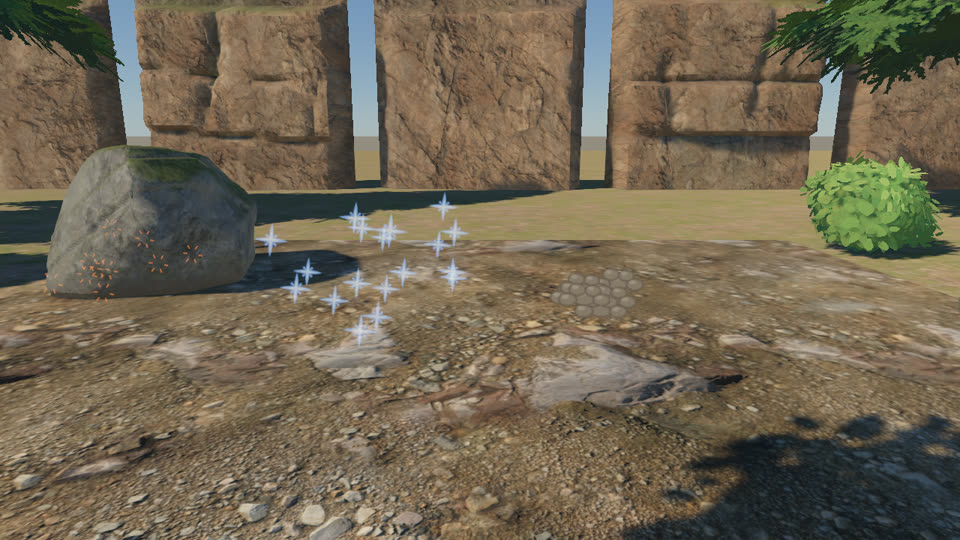
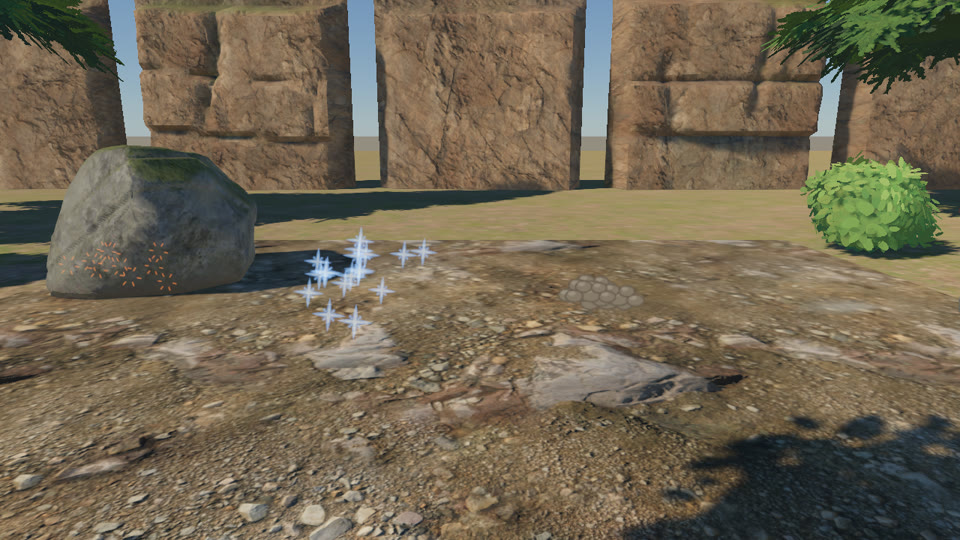
Particles: velocity cone init modifier
InitModifier::VelocityCone { direction, spread, speed } throws particles in a
direction uniform over a cone's solid angle, matching asset-tooling's burst
presets. The oracle scenario particles_cone builds the same velocity on the
Bevy side from hanabi expressions; the kit showcase uses the cone instead of
its box approximation.

Closes #87

diff --git a/oracle/src/particles.rs b/oracle/src/particles.rs
@@ -131,6 +131,14 @@ pub enum Velocity {
     Radial { speed: f32 },
     /// `base + (2 r - 1) * spread` per axis, `r` uniform in [0, 1)³ from the particle's stream.
     Jitter { base: Vec3, spread: Vec3 },
+    /// In a cone of half-angle `spread` around `direction`, uniform over its solid angle, at a
+    /// speed uniform in `speed.0..speed.1` (render-engine `InitModifier::VelocityCone`; hanabi
+    /// expressions on the Bevy side).
+    Cone {
+        direction: Vec3,
+        spread: f32,
+        speed: (f32, f32),
+    },
 }
 
 #[derive(Clone, Debug)]
@@ -227,6 +235,18 @@ impl Emitter {
                 min: base - spread,
                 max: base + spread,
             }),
+            Velocity::Cone {
+                direction,
+                spread,
+                speed,
+            } => InitModifier::VelocityCone {
+                direction,
+                spread,
+                speed: Value::Uniform {
+                    min: speed.0,
+                    max: speed.1,
+                },
+            },
         };
         particles::Emitter {
             capacity: self.capacity,
@@ -301,6 +321,19 @@ impl Emitter {
                         let (min, max) = (base - spread, base + spread);
                         r.frand3() * (max - min) + min
                     }
+                    Velocity::Cone {
+                        direction,
+                        spread,
+                        speed,
+                    } => {
+                        let d = direction.normalize();
+                        let (t1, t2) = d.any_orthonormal_pair();
+                        let c = 1.0 - r.frand() * (1.0 - spread.cos());
+                        let phi = r.frand() * std::f32::consts::TAU;
+                        let speed = speed.0 + r.frand() * (speed.1 - speed.0);
+                        let s = (1.0 - c * c).max(0.0).sqrt();
+                        (t1 * (s * phi.cos()) + t2 * (s * phi.sin()) + d * c) * speed
+                    }
                 };
                 alive.push(particles::ParticleState {
                     position: position + self.translation,
@@ -350,6 +383,7 @@ pub fn all() -> Vec<ParticleScenario> {
         smoke_and_sparks(),
         lit_fog(),
         snapshot(),
+        cone_bursts(),
     ]
 }
 
@@ -991,6 +1025,127 @@ fn fountain() -> ParticleScenario {
             colour: 0.12,
         },
     }
+}
+
+/// An additive, round emitter thrown out in a cone (#87), like asset-tooling's burst presets
+/// (`direction`, `spread`, `speed`, `gravity`).
+#[allow(clippy::too_many_arguments)]
+fn cone(
+    name: &'static str,
+    spawn: Spawn,
+    position: Vec3,
+    direction: Vec3,
+    spread: f32,
+    speed: (f32, f32),
+    gravity: f32,
+    lifetime_frames: f32,
+    color: Vec4,
+) -> Emitter {
+    Emitter {
+        name,
+        capacity: 1024,
+        spawn,
+        position,
+        radius: 0.04,
+        velocity: Velocity::Cone {
+            direction,
+            spread,
+            speed,
+        },
+        lifetime: lifetime_frames * DT,
+        gravity: Vec3::new(0.0, -gravity, 0.0),
+        size: square(&[(0.0, 0.09), (1.0, 0.03)]),
+        color: vec![
+            (0.0, color),
+            (0.6, color * Vec4::new(0.6, 0.5, 0.5, 0.8)),
+            (1.0, color * Vec4::new(0.2, 0.1, 0.1, 0.0)),
+        ],
+        orient: Orient::CameraPlane,
+        texture: None,
+        round: true,
+        blend: ParticleBlend::Add,
+        translation: Vec3::ZERO,
+        lighting: None,
+        fog: false,
+        driver: Driver::Spawner,
+    }
+}
+
+/// `particles_cone` (#87): velocity cones (`InitModifier::VelocityCone`), built on the Bevy
+/// side from hanabi expressions. Three bursts shaped like asset-tooling's presets: sparks
+/// straight up (spread 1.1 rad), a guard-break glint thrown sideways and away from the camera
+/// (1.4 rad), a dust puff over more than a hemisphere (2.6 rad), and a narrow jet (0.35 rad,
+/// tilted back) spawning 512 a second. Captured at 0.5 s (no particle has died yet: exact tier)
+/// and 2.5 s (the bursts have died, the jet recycles slots: statistical tier).
+fn cone_bursts() -> ParticleScenario {
+    let mut s = fountain();
+    s.name = "particles_cone";
+    s.capability = "velocity cone";
+    s.seed = 0x5eed_0087;
+    s.emitters = vec![
+        cone(
+            "spark",
+            Spawn::Burst { count: 128 },
+            Vec3::new(-2.6, 1.0, 0.0),
+            Vec3::Y,
+            1.1,
+            (2.4, 4.5),
+            6.0,
+            80.0,
+            Vec4::new(6.0, 3.0, 0.8, 1.0),
+        ),
+        cone(
+            "guard_break",
+            Spawn::Burst { count: 128 },
+            Vec3::new(-0.6, 2.6, 0.0),
+            Vec3::new(1.0, 0.4, -0.6),
+            1.4,
+            (2.4, 5.0),
+            5.0,
+            80.0,
+            Vec4::new(1.5, 2.5, 5.0, 1.0),
+        ),
+        cone(
+            "dust",
+            Spawn::Burst { count: 128 },
+            Vec3::new(2.6, 3.0, 0.0),
+            Vec3::Y,
+            2.6,
+            (0.8, 2.0),
+            0.4,
+            80.0,
+            Vec4::new(3.0, 2.6, 2.0, 1.0),
+        ),
+        cone(
+            "jet",
+            Spawn::Rate { per_second: 512.0 },
+            Vec3::new(-1.0, 0.2, 0.5),
+            Vec3::new(0.3, 1.0, -0.5),
+            0.35,
+            (5.0, 6.0),
+            9.81,
+            96.0,
+            Vec4::new(1.0, 4.0, 2.0, 1.0),
+        ),
+    ];
+    s.captures = vec![
+        Capture {
+            frame: 32,
+            tier: Tier::Exact,
+        },
+        Capture {
+            frame: 160,
+            tier: Tier::Statistical,
+        },
+    ];
+    // Seed noise at 2.5 s over eight seeds (RTX 3060 Ti): coverage ≤ 0.0152, spatial ≤ 0.0555,
+    // colour ≤ 0.0395. Gravity ×1.25 scores 0.082 / 0.202 / 0.066.
+    s.stat_max = StatThresholds {
+        coverage: 0.023,
+        spatial: 0.083,
+        colour: 0.06,
+    };
+    s
 }
 
 /// `particles_100k`: a fountain sustaining about 100k particles (51 200 a second, living 2 s)

diff --git a/oracle/src/bevy_side.rs b/oracle/src/bevy_side.rs
@@ -1145,7 +1145,7 @@ fn effect_asset(e: &Emitter, seed: u32, gravity_scale: f32) -> hanabi::EffectAss
     };
     enum InitVelocity {
         Radial(hanabi::SetVelocitySphereModifier),
-        Jitter(SetAttributeModifier),
+        Set(SetAttributeModifier),
     }
     let init_velocity = match e.velocity {
         ParticleVelocity::Radial { speed } => {
@@ -1157,7 +1157,32 @@ fn effect_asset(e: &Emitter, seed: u32, gravity_scale: f32) -> hanabi::EffectAss
         ParticleVelocity::Jitter { base, spread } => {
             let r = w.rand(hanabi::VectorType::VEC3F);
             let v = r * w.lit(v3(spread * 2.0)) + w.lit(v3(base - spread));
-            InitVelocity::Jitter(SetAttributeModifier::new(Attribute::VELOCITY, v.expr()))
+            InitVelocity::Set(SetAttributeModifier::new(Attribute::VELOCITY, v.expr()))
+        }
+        // render-engine's `InitModifier::VelocityCone` from hanabi expressions (hanabi has no
+        // cone modifier): the cosine, the azimuth and the speed drawn in that order (hanabi
+        // evaluates a binary expression's left operand first and caches each `rand`).
+        ParticleVelocity::Cone {
+            direction,
+            spread,
+            speed,
+        } => {
+            let d = direction.normalize();
+            let (t1, t2) = d.any_orthonormal_pair();
+            let c = w.lit(1.0f32) - w.rand(hanabi::ScalarType::Float) * w.lit(1.0 - spread.cos());
+            let phi = w.rand(hanabi::ScalarType::Float) * w.lit(std::f32::consts::TAU);
+            let s = (w.lit(1.0f32) - c.clone() * c.clone())
+                .max(w.lit(0.0f32))
+                .sqrt();
+            let speed =
+                w.lit(speed.0) + w.rand(hanabi::ScalarType::Float) * w.lit(speed.1 - speed.0);
+            let dir = w.lit(v3(t1)) * (s.clone() * phi.clone().cos())
+                + w.lit(v3(t2)) * (s * phi.sin())
+                + w.lit(v3(d)) * c;
+            InitVelocity::Set(SetAttributeModifier::new(
+                Attribute::VELOCITY,
+                (dir * speed).expr(),
+            ))
         }
     };
     let init_age = SetAttributeModifier::new(Attribute::AGE, w.lit(0.0f32).expr());
@@ -1203,7 +1228,7 @@ fn effect_asset(e: &Emitter, seed: u32, gravity_scale: f32) -> hanabi::EffectAss
         .init(init_position);
     asset = match init_velocity {
         InitVelocity::Radial(m) => asset.init(m),
-        InitVelocity::Jitter(m) => asset.init(m),
+        InitVelocity::Set(m) => asset.init(m),
     };
     asset.prng_seed = seed;
     asset = asset.init(init_age).init(init_lifetime).update(gravity);

diff --git a/examples/kit_showcase.rs b/examples/kit_showcase.rs
@@ -410,10 +410,9 @@ fn v3(v: &Json) -> Vec3 {
     Vec3::new(f(&v[0]), f(&v[1]), f(&v[2]))
 }
 
-/// An asset-tooling burst preset (`count`, `direction` (+Y in both kits), `spread`, `speed`,
-/// `gravity`, `lifetime`, `endScale`, `fadeOut`, `emitDuration`) as an emitter repeating every
-/// `period` s. The preset's cone of half-angle `spread` around +Y is approximated by a box of
-/// velocities (render-engine has hanabi's init modifiers, which have no velocity cone).
+/// An asset-tooling burst preset (`count`, `direction`, `spread`, `speed`, `gravity`,
+/// `lifetime`, `endScale`, `fadeOut`, `emitDuration`) as an emitter repeating every `period` s.
+/// The preset's cone of half-angle `spread` around `direction` is `InitModifier::VelocityCone`.
 fn burst(
     fx: &FlipbookEffect,
     preset: &str,
@@ -423,9 +422,6 @@ fn burst(
 ) -> Emitter {
     let p = &fx.presets[preset];
     let (count, lifetime) = (f(&p["count"]), f(&p["lifetime"]));
-    let (s0, s1) = (f(&p["speed"][0]), f(&p["speed"][1]));
-    let spread = f(&p["spread"]).min(std::f32::consts::FRAC_PI_2);
-    let side = s1 * spread.sin();
     let emit = f(&p["emitDuration"]);
     let fade = p["fadeOut"].as_bool().unwrap();
     Emitter {
@@ -443,10 +439,14 @@ fn burst(
                 radius: 0.04,
                 dimension: ShapeDimension::Volume,
             },
-            InitModifier::Velocity(Value::Uniform {
-                min: Vec3::new(-side, s0 * spread.cos(), -side),
-                max: Vec3::new(side, s1, side),
-            }),
+            InitModifier::VelocityCone {
+                direction: v3(&p["direction"]),
+                spread: f(&p["spread"]),
+                speed: Value::Uniform {
+                    min: f(&p["speed"][0]),
+                    max: f(&p["speed"][1]),
+                },
+            },
             InitModifier::Lifetime(Value::Const(lifetime)),
             InitModifier::Color(Value::Const(Vec4::ONE)),
         ],

diff --git a/src/particle_sim.rs b/src/particle_sim.rs
@@ -106,6 +106,7 @@ mod kind {
     pub const AGE: u32 = 5;
     pub const SIZE: u32 = 6;
     pub const COLOR: u32 = 7;
+    pub const VELOCITY_CONE: u32 = 8;
 }
 
 /// `(mode, a, b)` of a vector: constant in `a`, or uniform between `a` and `b`.
@@ -149,6 +150,16 @@ fn modifier(m: &InitModifier) -> GpuModifier {
             (kind::VELOCITY_SPHERE, (mode, center.extend(0.0), speed))
         }
         InitModifier::Velocity(v) => (kind::VELOCITY, value(v, |v: Vec3| v.extend(0.0))),
+        InitModifier::VelocityCone {
+            direction,
+            spread,
+            speed,
+        } => {
+            // The unit axis and the cosine of the half-angle in `a`, the speed in `b`.
+            let (mode, speed, _) = scalar(speed);
+            let axis = direction.normalize().extend(spread.cos());
+            (kind::VELOCITY_CONE, (mode, axis, speed))
+        }
         InitModifier::Lifetime(v) => (kind::LIFETIME, scalar(v)),
         InitModifier::Age(v) => (kind::AGE, scalar(v)),
         InitModifier::Size(v) => (kind::SIZE, scalar(v)),

diff --git a/src/particles.rs b/src/particles.rs
@@ -122,6 +122,17 @@ pub enum InitModifier {
     VelocitySphere { center: Vec3, speed: Value<f32> },
     /// Sets the velocity (hanabi `SetAttributeModifier(VELOCITY)`).
     Velocity(Value<Vec3>),
+    /// In a cone around `direction` at `speed` (not a hanabi modifier; the oracle builds it
+    /// from hanabi expressions): the velocity's direction is uniform over the cone's solid
+    /// angle, every direction at most `spread` radians from `direction` (a half-angle; π is
+    /// the whole sphere). Draws `frand()` for the polar angle's cosine, uniform in
+    /// `[cos spread, 1]`, then `frand()` for the azimuth around `direction`, then the speed's.
+    /// asset-tooling's burst presets (`direction`, `spread`, `speed`) map onto it directly.
+    VelocityCone {
+        direction: Vec3,
+        spread: f32,
+        speed: Value<f32>,
+    },
     /// Seconds (hanabi `SetAttributeModifier(LIFETIME)`); without one a particle lives 1 s.
     Lifetime(Value<f32>),
     /// Starting age, seconds.

diff --git a/docs/technical-decisions.md b/docs/technical-decisions.md
@@ -526,6 +526,21 @@ Each capture is judged by one of two tiers:
   before the first death) are in the exact tier and score FLIP mean 0.0000 and p99 0.0000 on the
   RTX 3060 Ti and on lavapipe. A replay seeded one bit off scores mean 0.0058 and 0.0091, p99
   0.031 and 0.40, which fails. GPU time is 0.067 ms against Bevy's 0.164 ms.
+- **Velocity cones** (#87). asset-tooling's burst presets throw particles in a cone
+  (`direction`, half-angle `spread` in radians, `speed: [min, max]`); hanabi has no cone
+  modifier. `InitModifier::VelocityCone` draws, from the particle's stream in this order, the
+  polar angle's cosine `c = 1 − frand()·(1 − cos spread)` (uniform over the cone's solid
+  angle), the azimuth `φ = frand()·τ` and the speed, and sets `v = (t₁·sin θ cos φ + t₂·sin θ
+  sin φ + d·c)·speed`, with `(t₁, t₂)` glam's `any_orthonormal_pair` around the unit axis `d`.
+  **Oracle:** `particles_cone` gives hanabi the same velocity as a `SetAttributeModifier
+  (VELOCITY)` expression (three `rand(Float)`, the basis as literals; hanabi evaluates a binary
+  expression's left operand first and stores each `rand` once, so it draws in the same order).
+  Three bursts (spread 1.1 straight up, 1.4 sideways and away from the camera, 2.6 over more
+  than a hemisphere) and a narrow jet (0.35, 512 a second). At 0.5 s (exact tier) both sides
+  score FLIP mean 0.0000 and p99 0.0000 on the RTX 3060 Ti; every other seed scores mean ≥
+  0.062 and p99 ≥ 0.979, gravity × 1.25 mean 0.054 and p99 0.978. At 2.5 s seed noise reaches
+  coverage 0.0152, spatial 0.0555 and colour 0.0395, so the gate is 0.023 / 0.083 / 0.06;
+  gravity × 1.25 scores 0.082 / 0.202 / 0.066. GPU time is 0.080 ms against Bevy's 0.173 ms.
 - **Recycling in practice.** On the RTX 3060 Ti and on lavapipe, both sides' atomics happen to
   recycle slots in the same order for `particles_fountain` and `particles_100k`, so their late
   captures also match nearly exactly (FLIP mean ≤ 0.0002, statistics 0.000). The statistical

diff --git a/docs/particle-kit-showcase.md b/docs/particle-kit-showcase.md
@@ -78,8 +78,10 @@ These are visible in the images above. Each is a follow-up slice.
    per frame, so 1000 burst emitters cost 25 ms. Each emitter is a draw, a 768-byte step
    upload and a texture bind group created every frame (`ParticleFrame::prepare`).
 5. **No velocity cone.** asset-tooling's presets emit in a cone (`direction`, `spread`), and
-   hanabi's init modifiers have none, so the showcase approximates it with a box of velocities.
-   The `trail` preset's segment `instances` are not modelled either.
+   hanabi's init modifiers have none, so the showcase approximated it with a box of
+   velocities. Since #87 the presets use `InitModifier::VelocityCone` (oracle
+   `particles_cone`); `combat_bursts` and `zoo_bursts` above are rendered with it. The `trail`
+   preset's segment `instances` are not modelled.
 6. **Alpha emitters are not sorted inside.** Dense alpha effects (smoke, spray) draw in GPU
    alive-list order, as hanabi does. At the densities here no artefact is visible yet.
 

diff --git a/docs/consumer-integration.md b/docs/consumer-integration.md
@@ -366,6 +366,11 @@ world.step_particles(&mut encoder, dt, None);
   `world.read_alive_particles()` reads every emitter's alive count back from the GPU and waits,
   for tests and tools.
 - **Limits.** At most 8 init modifiers per emitter and 8 keys per gradient.
+- **Velocity cones.** `InitModifier::VelocityCone { direction, spread, speed }` throws each
+  particle in a direction uniform over a cone of half-angle `spread` radians around
+  `direction` (up to π, the whole sphere) at `speed`. asset-tooling's burst presets
+  (`direction`, `spread`, `speed: [min, max]`) map onto it field for field, with
+  `speed: Value::Uniform { min, max }`.
 - **Simulation space.** Particles live in world space: moving the emitter moves where new ones
   spawn, not the ones already alive.
 - **Draw order.** Emitters are drawn back to front by their transform's position, additive and
